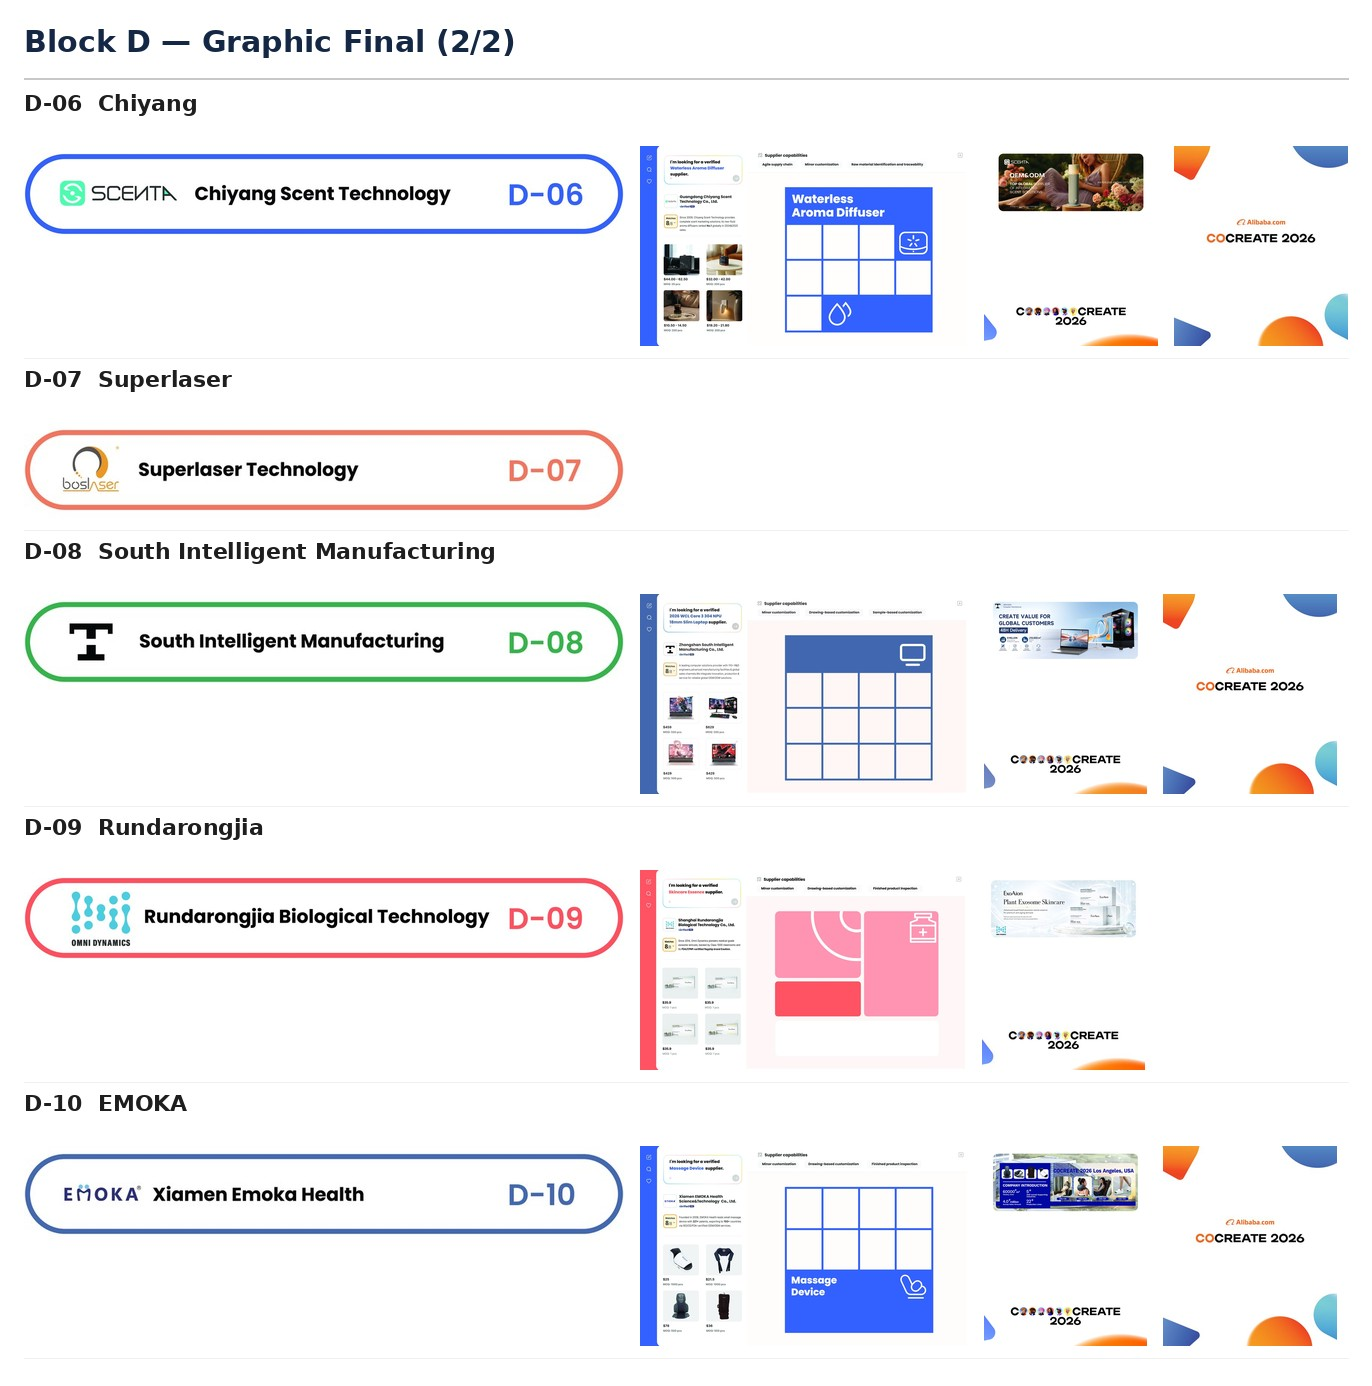
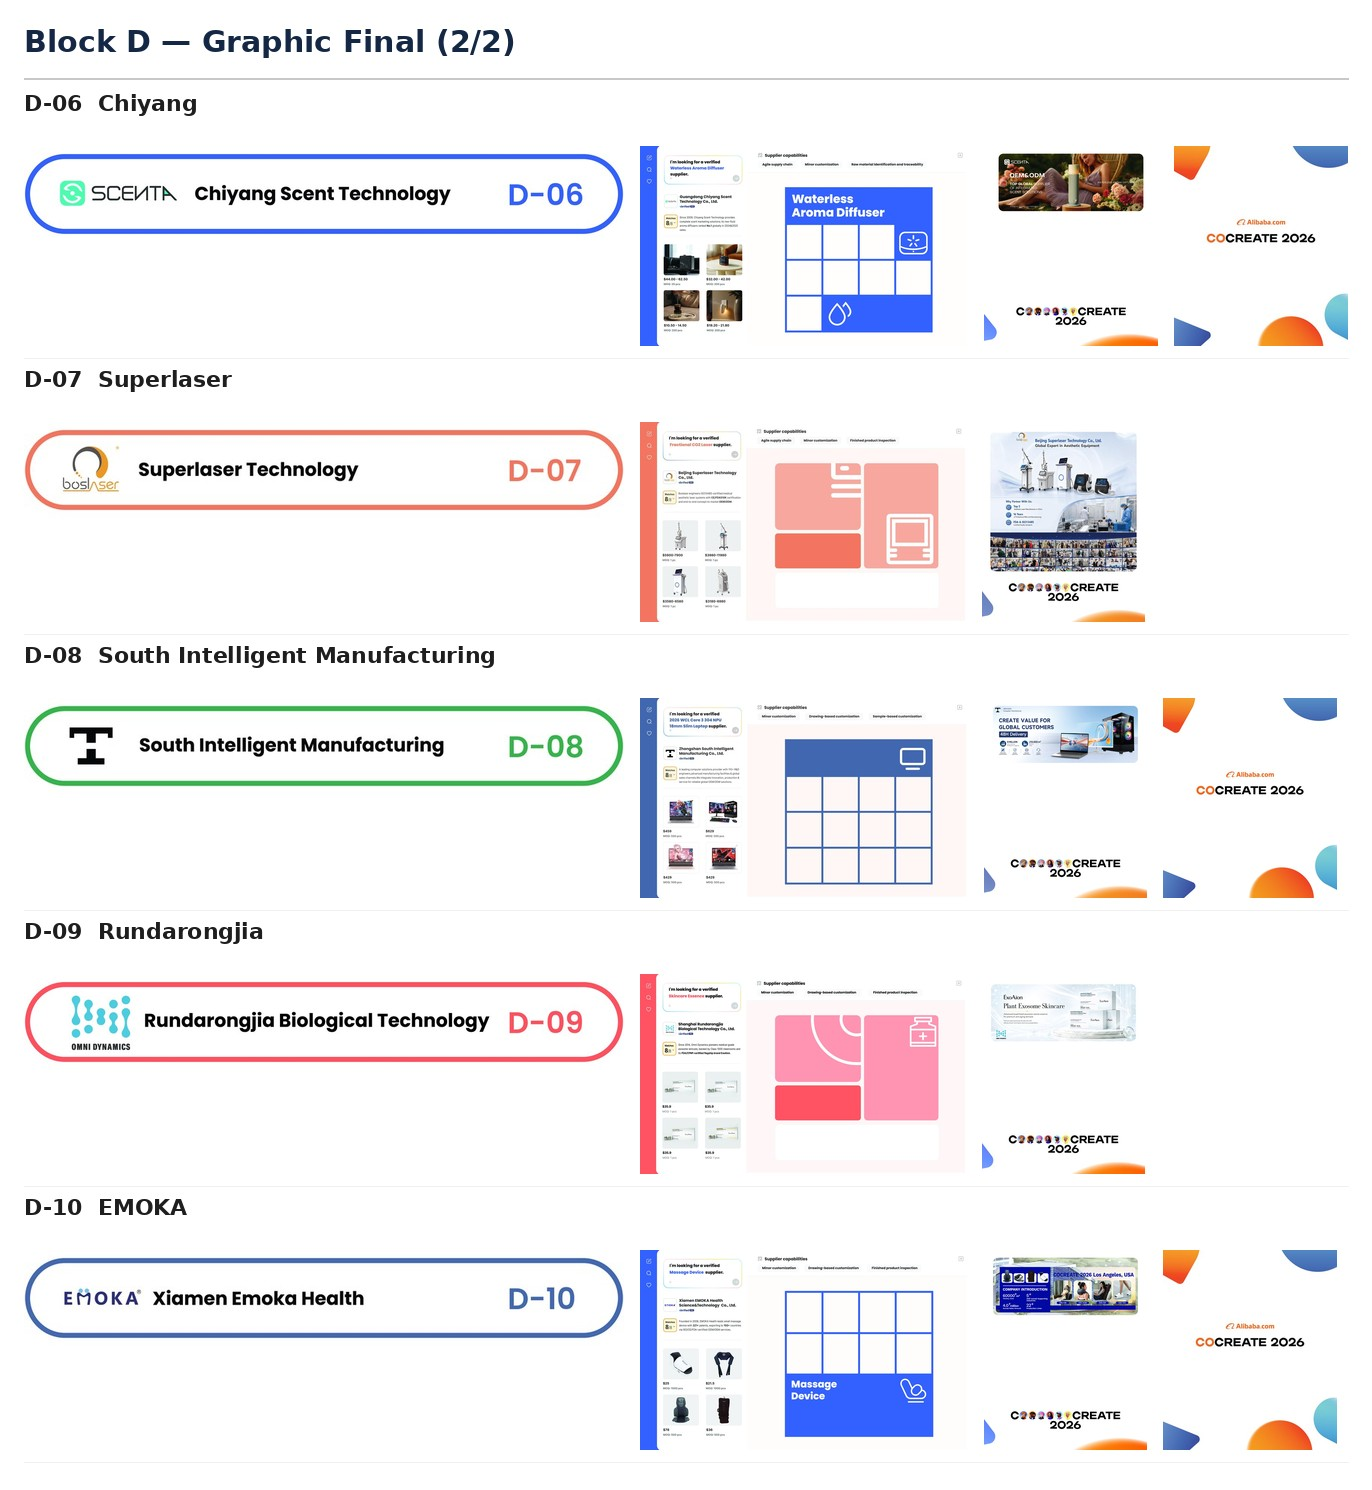
重新生成全部 zone 美工圖（12 頁，含 A-05 洽談區 + D-07 補圖）

diff --git a/script.js b/script.js
@@ -4,7 +4,7 @@
 
 const TODAY = (() => { const d = new Date(); d.setHours(0, 0, 0, 0); return d; })();
 const SHOW_START = new Date('2026-09-09');
-const IMG_CACHE_BUST = '?v=20260827d';  // bump to bust image CDN cache
+const IMG_CACHE_BUST = '?v=20260827e';  // bump to bust image CDN cache
 
 const ACCESS_LIST = {
   'nickie@nichemusa.com': 'Nickie Wang',
@@ -730,7 +730,7 @@ const CONTENT_KEY = 'cocreate2026_content';
 const CONTENT_VER_KEY = 'cocreate2026_content_ver';
 // Bump this whenever DEFAULT_DATA is updated in a way that must reach viewers.
 // A saved snapshot from an older version is discarded so the new defaults show through.
-const CONTENT_VERSION = 132;
+const CONTENT_VERSION = 133;
 
 // ---------- Firebase (graphics 多人同步) ----------
 const FB_CONFIG = {

diff --git a/index.html b/index.html
@@ -258,7 +258,7 @@
 
 <script src="https://www.gstatic.com/firebasejs/10.12.0/firebase-app-compat.js"></script>
 <script src="https://www.gstatic.com/firebasejs/10.12.0/firebase-firestore-compat.js"></script>
-<script src="script.js?v=289&t=20260826"></script>
+<script src="script.js?v=290&t=20260826"></script>
 <script>
 var FP_PAGES = ['assets/floor-plan-zone.jpg', 'assets/floor-plan-detail.jpg', 'assets/sponsor-power-plan.jpg'];
 var FP_CAPTIONS = ['Full Floor Plan (全場平面圖)', 'Floor Plan Detail (平面圖明細)', 'Sponsor Power Plan (Sponsor 電力配置)'];
